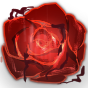
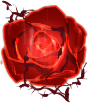
igm

diff --git a/RebelliaCode/Character/RebelliaCardPool.cs b/RebelliaCode/Character/RebelliaCardPool.cs
@@ -7,9 +7,11 @@ public class RebelliaCardPool : CustomCardPoolModel
 {
     public override string Title => Rebellia.InnerName;
 
-    public override string BigEnergyIconPath => "";
+    public override string BigEnergyIconPath =>
+        "res://Rebellia/images/ui/combat/Rebellia_energy_icon.png";
 
-    public override string TextEnergyIconPath => "";
+    public override string TextEnergyIconPath =>
+        "res://Rebellia/images/ui/combat/text_Rebellia_energy_icon.png";
 
     public override string CardFrameMaterialPath => "card_frame_blood";
     public override Color ShaderColor => new("4011");
